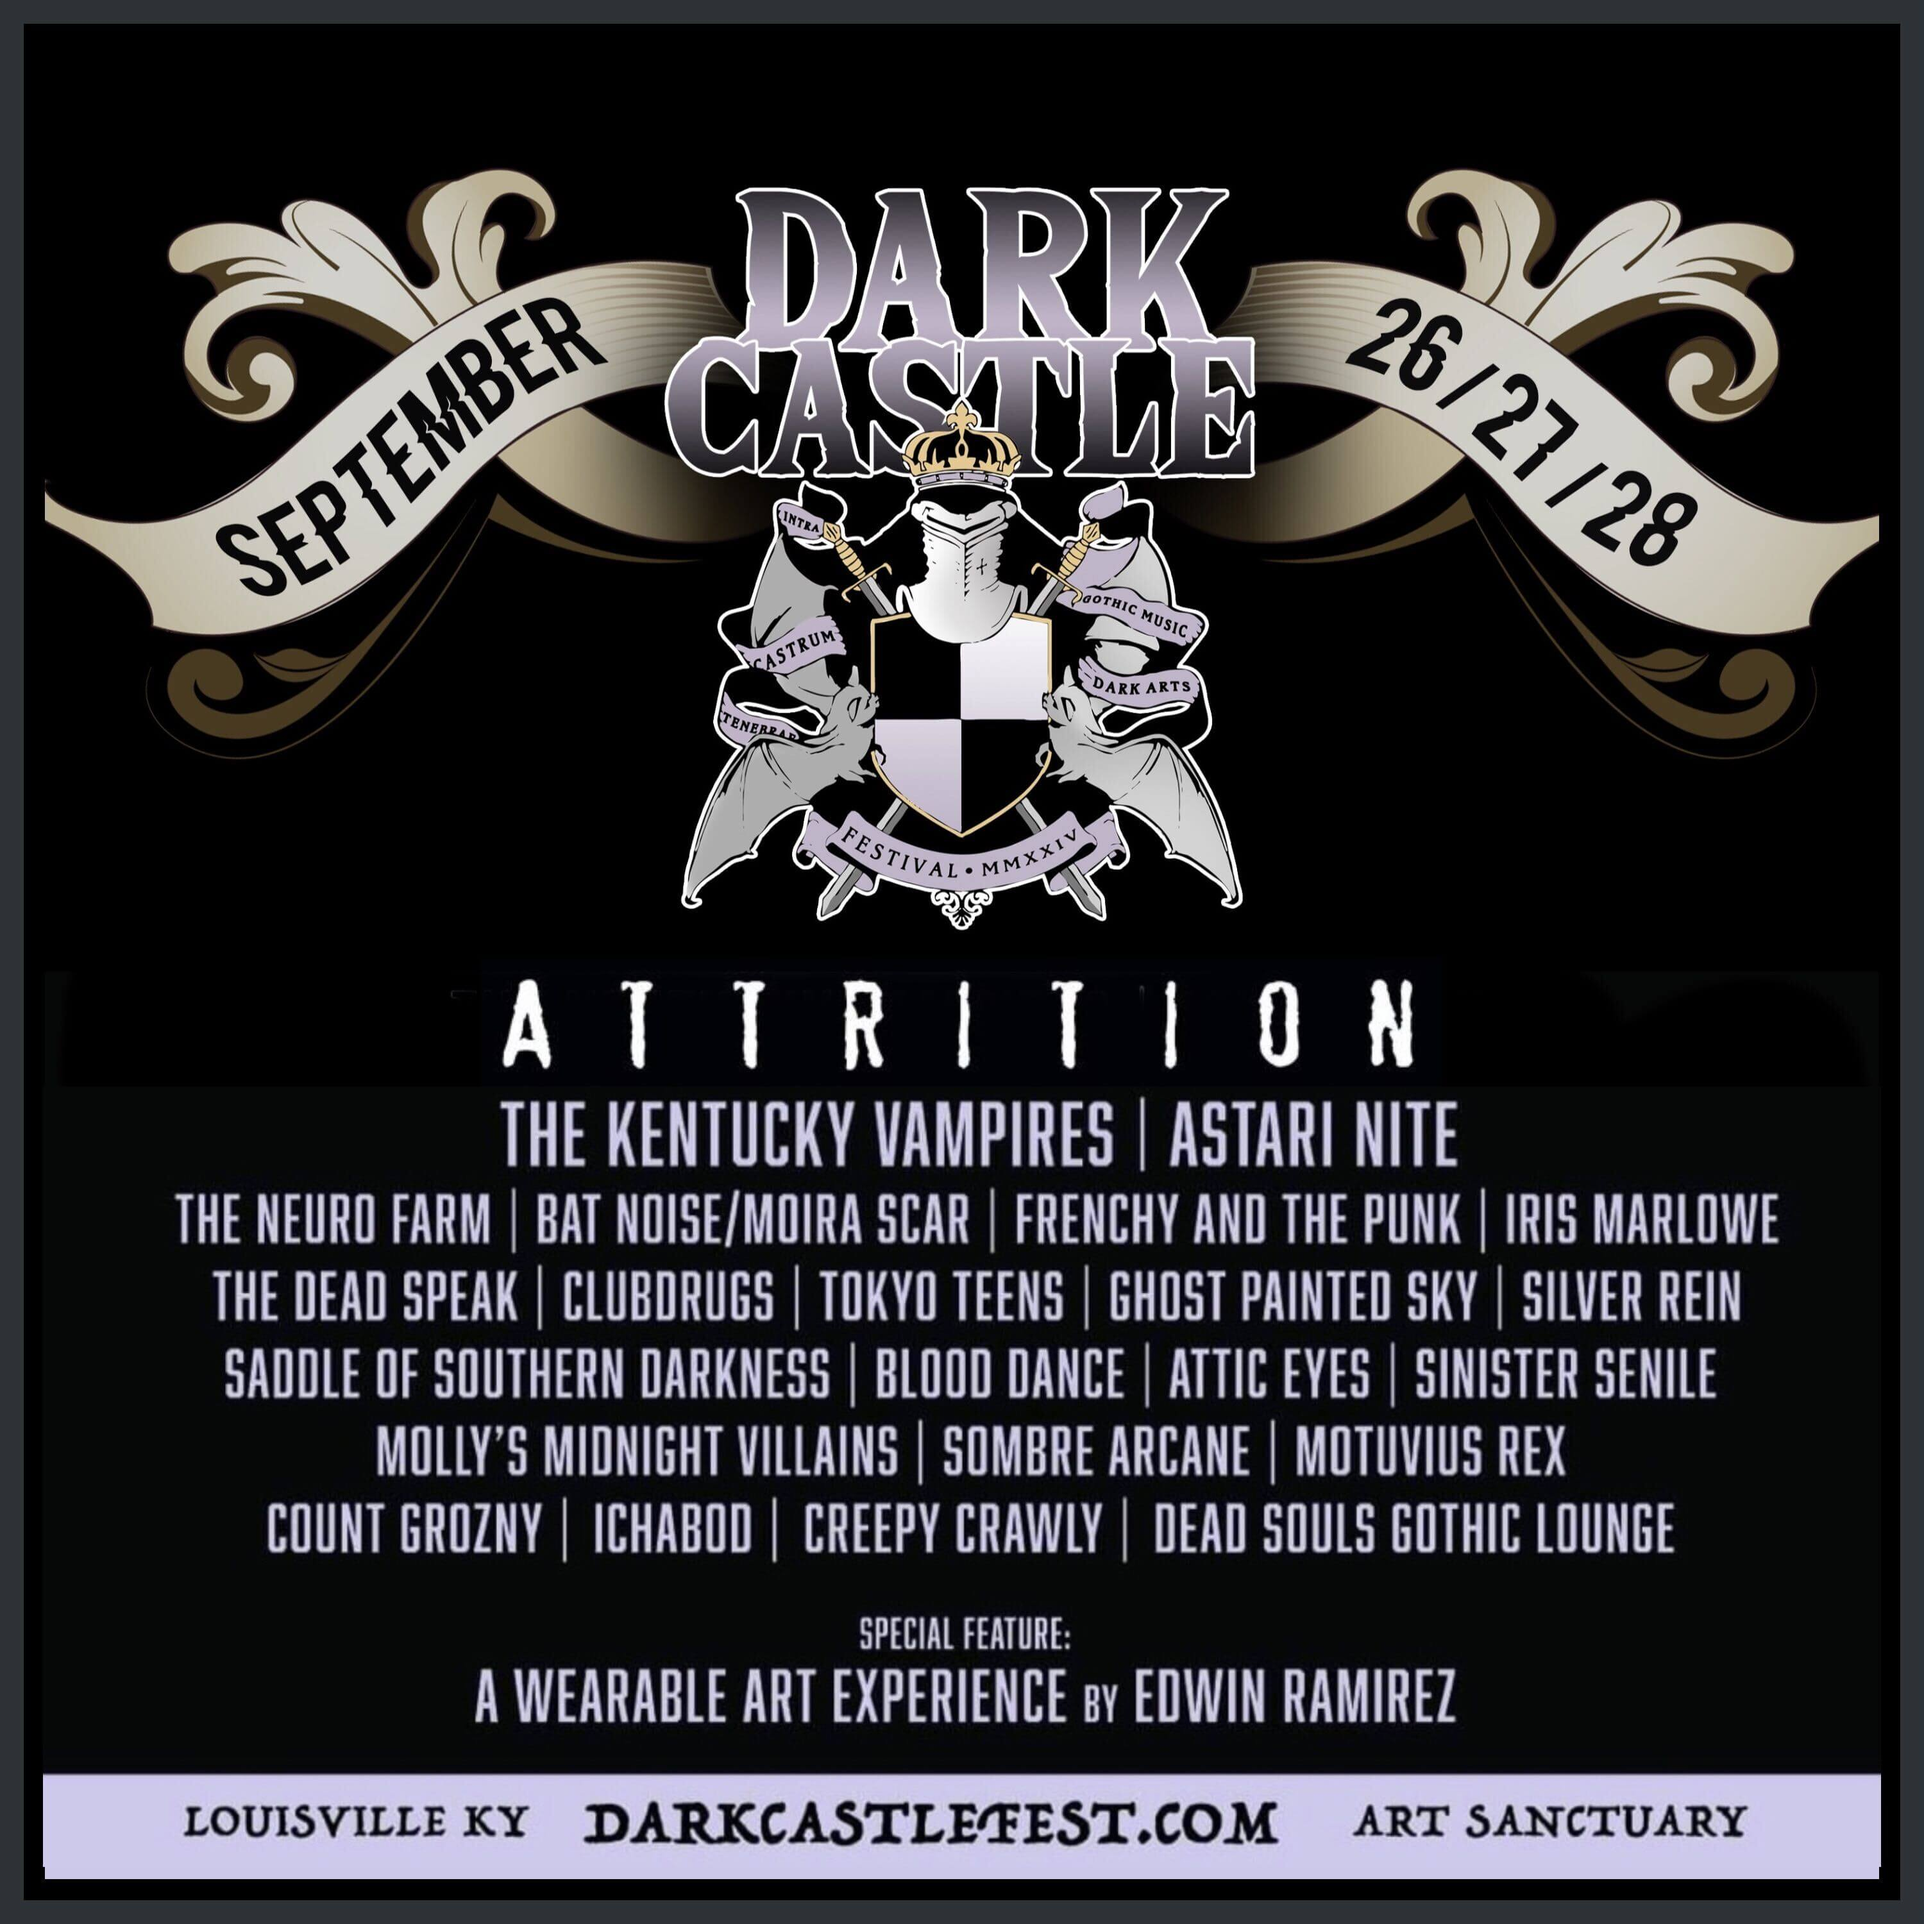
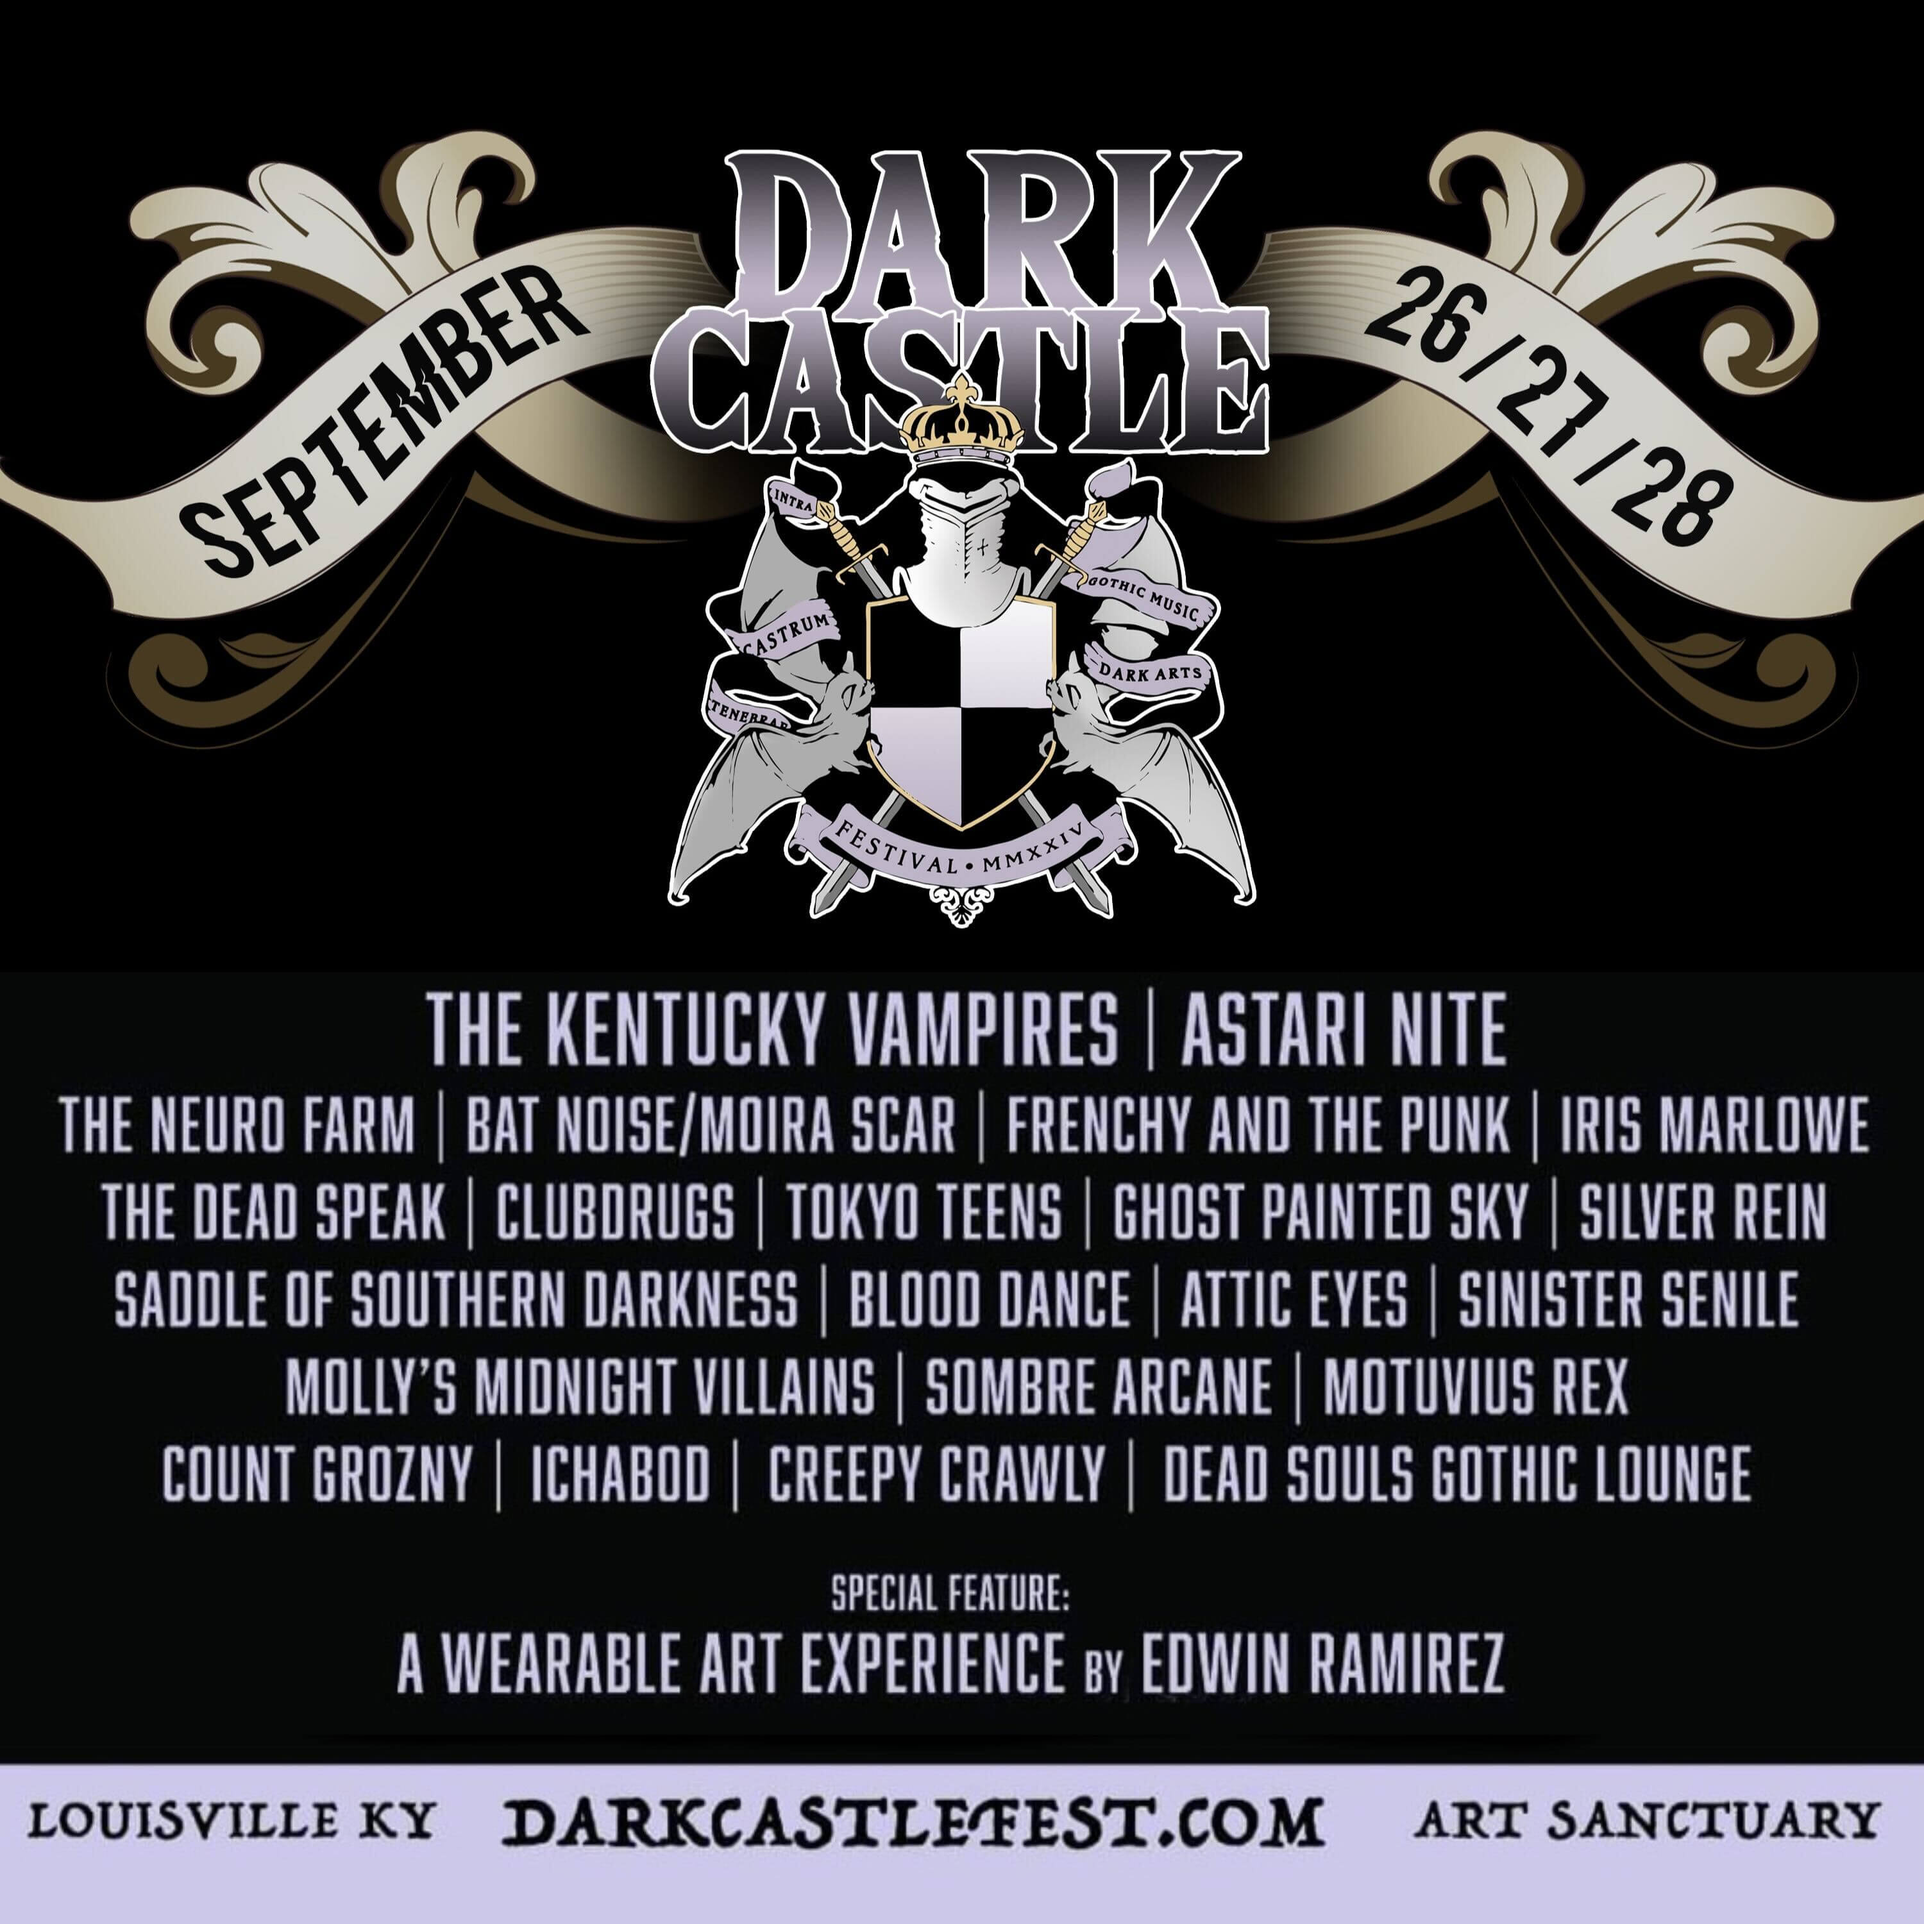
dark castle + feyleux event

diff --git a/_posts/events/feyleux-summore-live-at-art-sanctuary.md b/_posts/events/feyleux-summore-live-at-art-sanctuary.md
@@ -1,0 +1,40 @@
+---
+layout: event
+title: 2024-10-10 Arcane Alive
+displayName: "Feyleux / Summore"
+eventType: arcane-alive
+date: "2024-10-10"
+startDatetime: "2024-10-10 20:00:00"
+endDatetime: "2024-10-10 23:45:00"
+image: /img/uploads/feyleux-summore-live-at-art-sanctuary.jpg
+description: >-
+   Radio Arcane Presents: Radio Arcane Presents Feyleux and Summore live at Art Sanctuary in Louisville, Kentucky.
+
+   Local support TBA.
+
+
+
+   **Feyleux** is a new dark alternative group that formed in mid-2023, combining dreampop and darkwave. The duo's debut album, "Midnight Hearts," showcases edgy bass synth, swirling guitars, and icy 80s synthpop melodies while highlighting ethereal vocals. The songs delve into themes of love, loss, longing, and personal power through a darker lens, with lyrics touching on paranormal experiences, the occult, exploring liminal spaces, and even contact with the undead. "Midnight Hearts" strikes a balance between dreamy urgency and drama within the context of dark romanticism and a subtly danceable sense of anger
+
+   https://feyleux.bandcamp.com
+
+
+
+   **SUMMORE** is a captivating dark synth-pop duo from Columbus, Ohio, is made up of Julie, whose hauntingly beautiful vocals and evocative lyrics captivate audiences, and Justin, the mastermind behind their intricate synth and production work. Together, they create a sound that is both enigmatic and mesmerizing, blending bright, catchy melodies with profound, often hidden, meanings. Their music invites listeners on a journey of discovery, where each listen reveals new layers and interpretations.
+
+   https://summore.bandcamp.com
+
+
+
+   18+ entry
+
+   21+ bar
+
+   $8 advanced tickets
+shortDescription: ""
+location: Art Sanctuary
+facebookEventLink: "https://www.facebook.com/events/s/feyleux-summore/872443054213829"
+ticketsLink: "https://art-sanctuary.ticketleap.com/feyleux--summore"
+cover: "8.00"
+playlist: ""
+---

diff --git a/_posts/events/dark-castle-fest-2024.md b/_posts/events/dark-castle-fest-2024.md
@@ -20,7 +20,7 @@ description: >-
 
    Featuring live performances by:
 
-   Attrition, The Kentucky Vampires, Astari Nite, The Neuro Farm, Frenchy and the Punk, Blood Dance, Ghost Painted Sky, Attic Eyes, Motuvius Rex, Bat Noise, Sombre Arcane, Tokyo Teens, clubdrugs, Iris Marlowe, The Dead Speak, Saddle Of Southern Darkness, Silver Rein, Molly's Midnight Villains, Sinister Senile.
+   The Kentucky Vampires, Astari Nite, The Neuro Farm, Frenchy and the Punk, Blood Dance, Ghost Painted Sky, Attic Eyes, Motuvius Rex, Bat Noise, Sombre Arcane, Tokyo Teens, clubdrugs, Iris Marlowe, The Dead Speak, Saddle Of Southern Darkness, Silver Rein, Molly's Midnight Villains, Sinister Senile.
 
 
 
@@ -51,7 +51,7 @@ description: >-
 
    Line up - Thursday, September 26th:
 
-   Attrition, Iris Marlowe, The Dead Speak, Saddle of Southern Darkness, Silver Rein, Molly's Midnight Villains
+   Iris Marlowe, The Dead Speak, Saddle of Southern Darkness, Silver Rein, Molly's Midnight Villains
 
    With a showing of Maciste In Hell afterwards, featuring a contemporary Gothic inspired soundtrack of music curated by Count Grozny.
 
